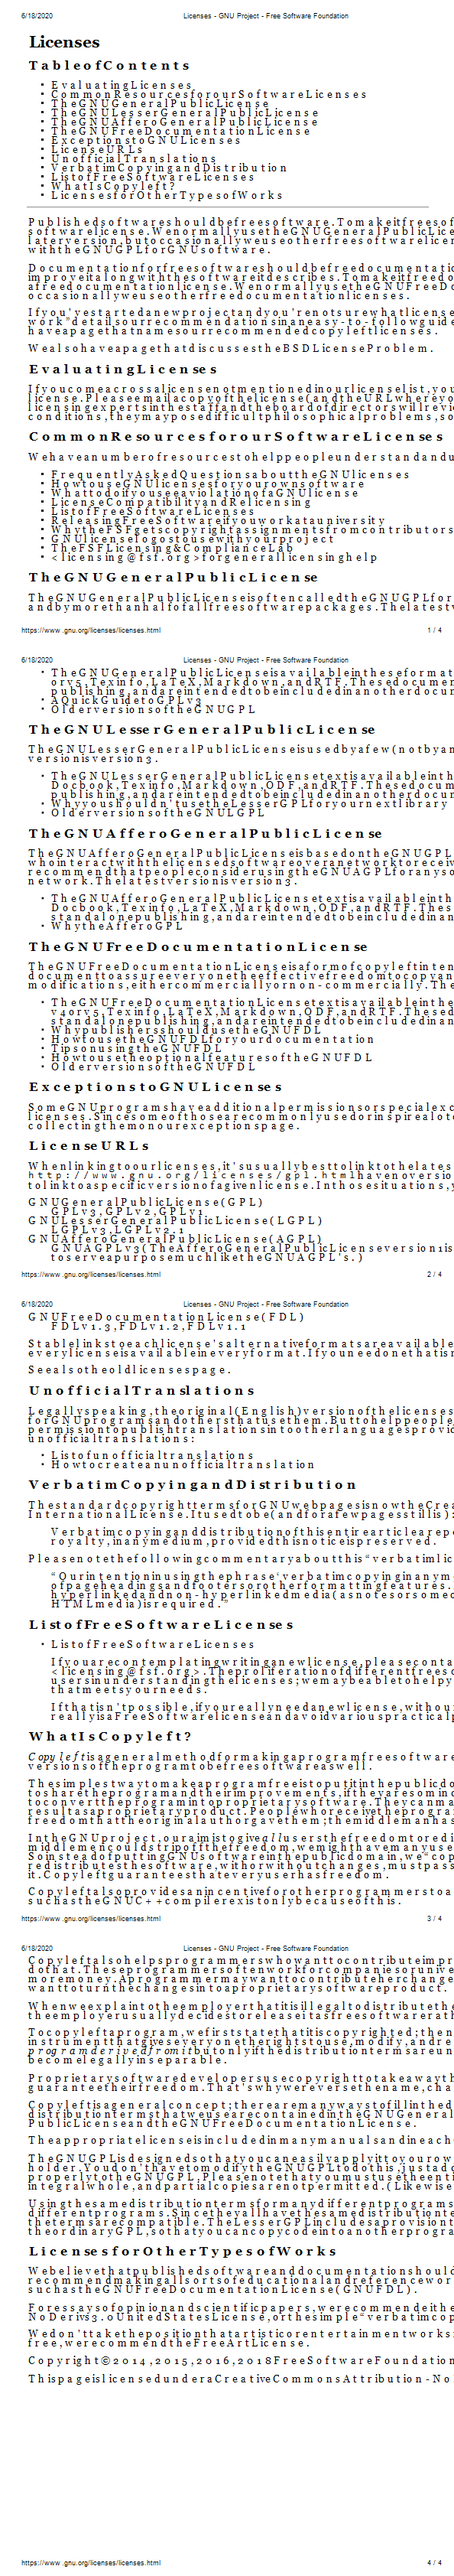
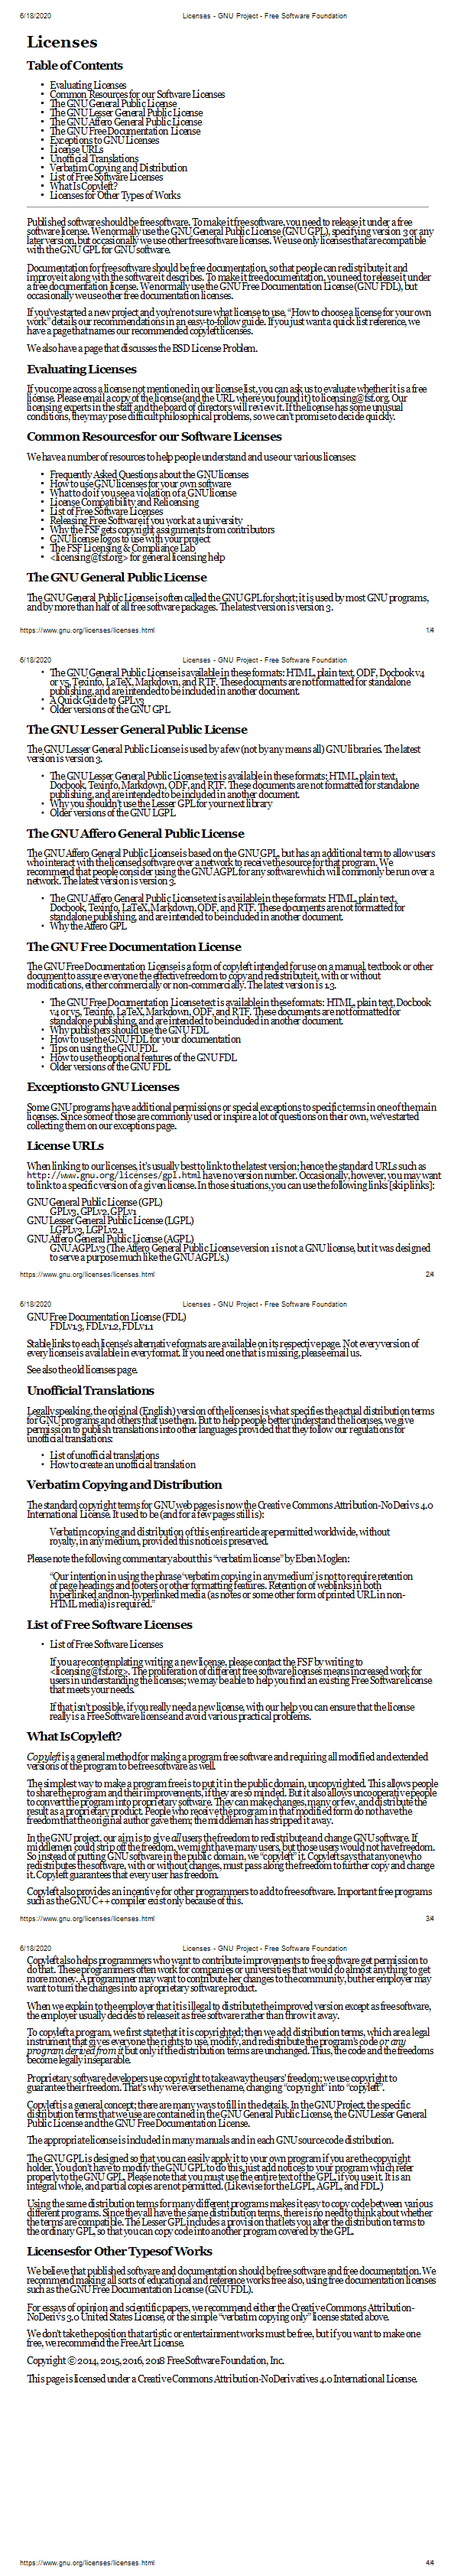
arrange image text

Changed region(s): [[0.0606, 0.0, 1.0, 0.9356]]

diff --git a/PdfRepresantation/image/PdfLineImageWriter.cs b/PdfRepresantation/image/PdfLineImageWriter.cs
@@ -25,13 +25,14 @@ namespace PdfRepresantation
                 float width;
                 if (string.IsNullOrWhiteSpace(text.Value))
                 {
-                    var point = graphics.MeasureString(".", font, 0, StringFormat.GenericDefault).Width;
+                    var point = graphics.MeasureString(".", font, 0, StringFormat.GenericTypographic).Width;
                     width = graphics.MeasureString("." + text.Value + ".", font, 0, StringFormat.GenericTypographic)
                                 .Width - point * 2;
                 }
                 else
                     width = graphics.MeasureString(text.Value, font, 0, StringFormat.GenericTypographic).Width;
 
+                width--;
                 if (page.RightToLeft)
                 {
                     right += width;
